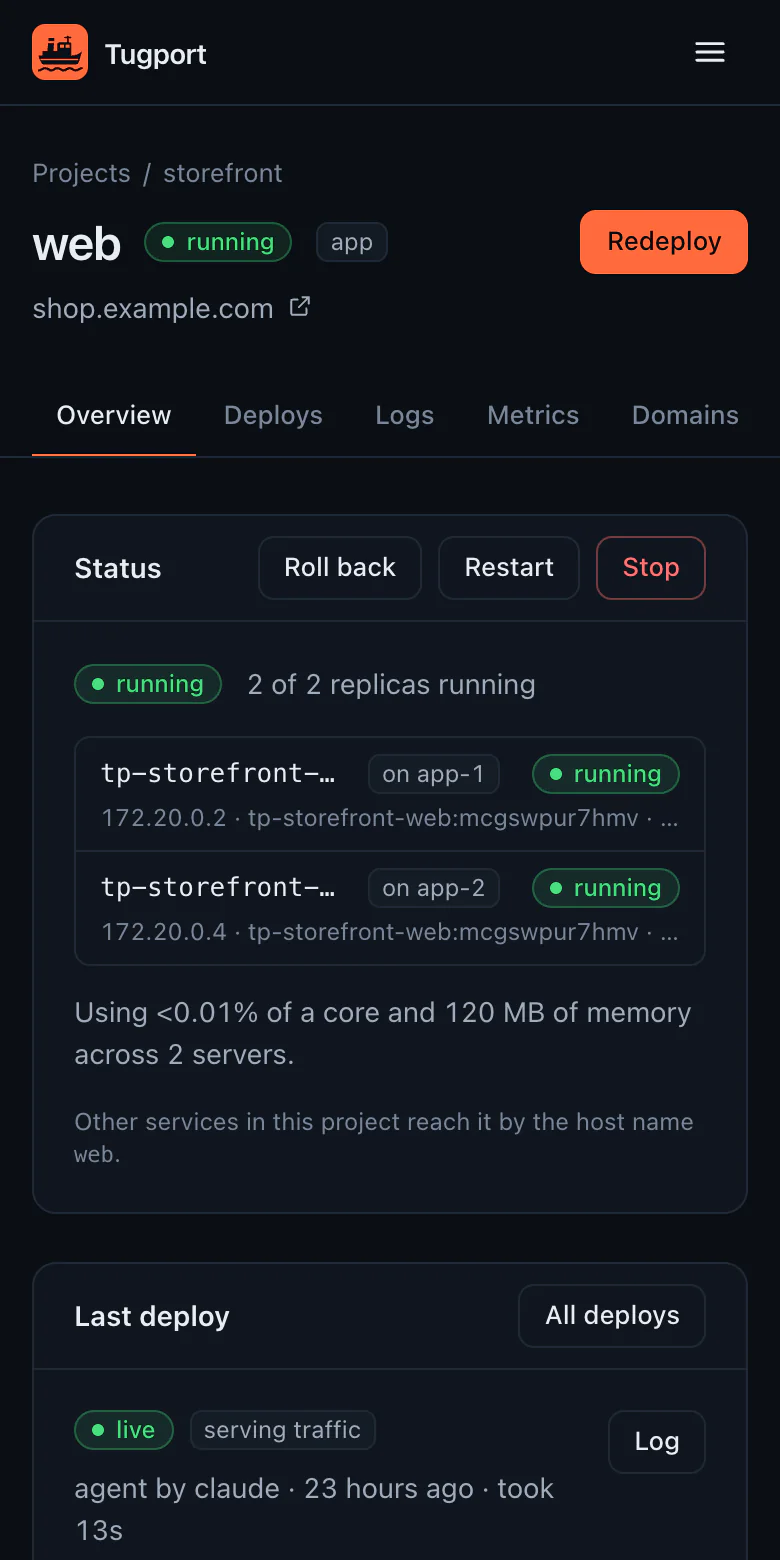
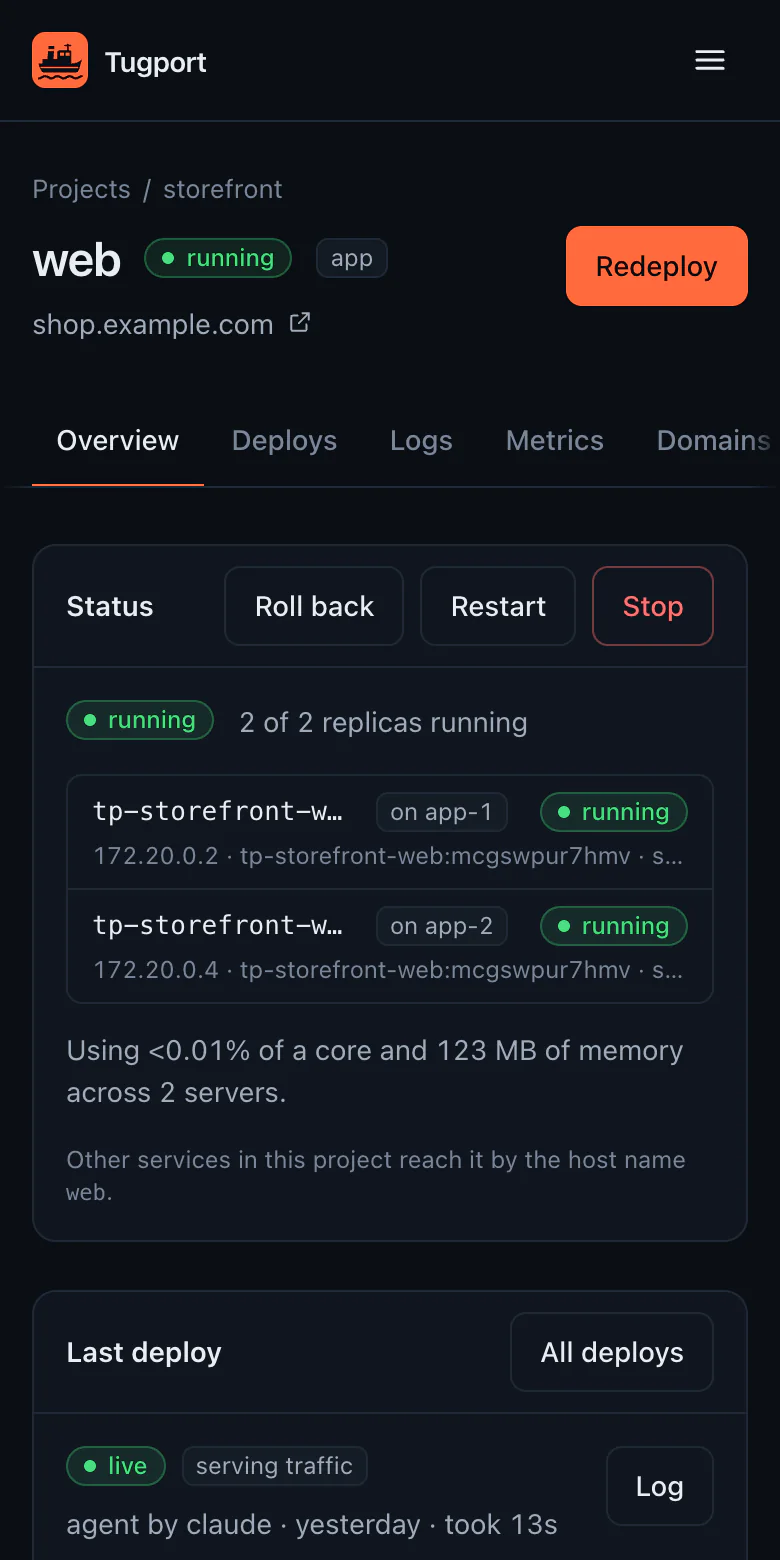
Make the panel and the landing comfortable on phones (#13)

diff --git a/website/index.html b/website/index.html
@@ -183,7 +183,9 @@
   .term + .term { margin-top: 14px; }
   .term .t { display: flex; justify-content: space-between; align-items: center; padding: 9px 14px; border-bottom: 1px solid var(--code-line); color: #7C899C; font-size: 12px; }
   .term pre { padding: 14px 16px; white-space: pre; }
-  @media (min-width: 981px) { .term pre.wrap { white-space: pre-wrap; } }
+  /* A log: each line wraps under its own text, after the timestamp. */
+  .term pre.log { white-space: pre-wrap; overflow-wrap: anywhere; }
+  .term pre.log > span { display: block; padding-left: 9ch; text-indent: -9ch; }
   .term .p { color: #FF8A63; user-select: none; }
   .term .c { color: #6E7B8F; }
   .term .ok { color: #4ADE80; }
@@ -246,6 +248,16 @@
     .card .pic { margin-left: 20px; }
     .card ul, .snip { margin-left: 20px; margin-right: 20px; }
     .facts { grid-template-columns: 1fr; }
+    /* The phone shots show the panel at its real phone size, so they fit the card instead of bleeding. */
+    .card .pic { margin-right: 20px; margin-bottom: 20px; border: 1px solid var(--line); border-radius: 12px; }
+    .card .pic img { -webkit-mask-image: none; mask-image: none; }
+    .term { font-size: 12.5px; }
+    .term pre { padding: 12px 14px; }
+    .term-copy { padding: 7px 12px; font-size: 13px; }
+    .steps li { display: grid; grid-template-columns: 30px minmax(0, 1fr); column-gap: 16px; padding: 20px; }
+    .steps li::before { grid-row: span 2; margin: 0; }
+    .steps h3 { align-self: center; }
+    footer nav a { padding: 8px 0; }
   }
   @media (prefers-reduced-motion: reduce) {
     html { scroll-behavior: auto; }
@@ -264,7 +276,7 @@
         <a class="hide-sm" href="#features">Features</a>
         <a class="hide-sm" href="#agents">Agents</a>
         <a class="hide-sm" href="#install">Install</a>
-        <a class="hide-sm" href="https://github.com/backmeupplz/tugport/tree/main/docs">Docs</a>
+        <a href="https://github.com/backmeupplz/tugport/tree/main/docs">Docs</a>
         <a class="gh" href="https://github.com/backmeupplz/tugport">
           <svg viewBox="0 0 24 24" fill="currentColor" aria-hidden="true"><path d="M12 .5a11.5 11.5 0 0 0-3.64 22.41c.58.1.79-.25.79-.56v-2c-3.2.7-3.88-1.37-3.88-1.37-.53-1.33-1.28-1.69-1.28-1.69-1.05-.71.08-.7.08-.7 1.16.08 1.77 1.19 1.77 1.19 1.03 1.77 2.71 1.26 3.37.96.1-.75.4-1.26.73-1.55-2.55-.29-5.24-1.28-5.24-5.69 0-1.26.45-2.29 1.19-3.09-.12-.29-.52-1.46.11-3.05 0 0 .97-.31 3.17 1.18a11 11 0 0 1 5.77 0c2.2-1.49 3.17-1.18 3.17-1.18.63 1.59.23 2.76.11 3.05.74.8 1.19 1.83 1.19 3.09 0 4.42-2.7 5.39-5.26 5.68.41.36.78 1.06.78 2.14v3.17c0 .31.21.67.8.56A11.5 11.5 0 0 0 12 .5Z"/></svg>
           GitHub
@@ -314,6 +326,8 @@
           </div>
           <div class="pic">
             <picture>
+              <source media="(max-width: 640px) and (prefers-color-scheme: light)" srcset="/shots/deploys-light-phone.webp" width="780" height="1040">
+              <source media="(max-width: 640px)" srcset="/shots/deploys-dark-phone.webp" width="780" height="1040">
               <source media="(prefers-color-scheme: light)" srcset="/shots/deploys-light.webp" width="1600" height="960">
               <img src="/shots/deploys-dark.webp" width="1600" height="960" loading="lazy" alt="The deploy history of a service: a release that crashed on start failed its health check and never received traffic, while the previous version kept serving.">
             </picture>
@@ -326,6 +340,8 @@
           </div>
           <div class="pic">
             <picture>
+              <source media="(max-width: 640px) and (prefers-color-scheme: light)" srcset="/shots/metrics-light-phone.webp" width="780" height="1040">
+              <source media="(max-width: 640px)" srcset="/shots/metrics-dark-phone.webp" width="780" height="1040">
               <source media="(prefers-color-scheme: light)" srcset="/shots/metrics-light.webp" width="1600" height="960">
               <img src="/shots/metrics-dark.webp" width="1600" height="960" loading="lazy" alt="CPU, memory and network charts of a service over the last hour.">
             </picture>
@@ -338,6 +354,8 @@
           </div>
           <div class="pic">
             <picture>
+              <source media="(max-width: 640px) and (prefers-color-scheme: light)" srcset="/shots/servers-light-phone.webp" width="780" height="1040">
+              <source media="(max-width: 640px)" srcset="/shots/servers-dark-phone.webp" width="780" height="1040">
               <source media="(prefers-color-scheme: light)" srcset="/shots/servers-light.webp" width="2080" height="1040">
               <img src="/shots/servers-dark.webp" width="2080" height="1040" loading="lazy" alt="Three servers in three regions, each online, with their Tugport and Docker versions, processor, memory and labels.">
             </picture>
@@ -404,14 +422,7 @@ Certificates: 1 imported, so nothing is re-issued</pre>
         </div>
         <div class="term">
           <div class="t"><span>Or deploy from the CLI and wait for the outcome</span></div>
-          <pre class="wrap"><span class="p">$ </span>tugport deploy storefront.api
-<span class="c">04:52:19</span> Fetching main from git@git.example.com:acme/storefront.git
-<span class="c">04:52:19</span> Checked out 5a24391 Cache the product list for a minute
-<span class="c">04:52:21</span> Built tp-storefront-api:z2ukkvwlcfw0 in 1.3s
-<span class="c">04:52:21</span> Running on app-1, app-2
-<span class="c">04:52:22</span> Started 2 containers; checking health
-<span class="c">04:52:22</span> Traffic switched; letting the old version finish requests for 10s
-<span class="c">04:52:33</span> <span class="ok">Live after 13.5s.</span></pre>
+          <pre class="log"><span><span class="p">$ </span>tugport deploy storefront.api</span><span><span class="c">04:52:19</span> Fetching main from git@git.example.com:acme/storefront.git</span><span><span class="c">04:52:19</span> Checked out 5a24391 Cache the product list for a minute</span><span><span class="c">04:52:21</span> Built tp-storefront-api:z2ukkvwlcfw0 in 1.3s</span><span><span class="c">04:52:21</span> Running on app-1, app-2</span><span><span class="c">04:52:22</span> Started 2 containers; checking health</span><span><span class="c">04:52:22</span> Traffic switched; letting the old version finish requests for 10s</span><span><span class="c">04:52:33</span> <span class="ok">Live after 13.5s.</span></span></pre>
         </div>
       </div>
     </div>

diff --git a/web/src/ui.tsx b/web/src/ui.tsx
@@ -1,7 +1,7 @@
 // Small shared components. Native elements first: <dialog> for modals, confirm() for
 // quick confirmations, <fieldset disabled> for read-only forms.
 import type { ComponentChildren, JSX } from "preact";
-import { useEffect, useRef, useState } from "preact/hooks";
+import { useEffect, useLayoutEffect, useRef, useState } from "preact/hooks";
 import type { ApiError } from "./api";
 import { Icon } from "./icons";
 import { copyText, sentence } from "./util";
@@ -53,12 +53,12 @@ export function Card(props: { title?: ComponentChildren; actions?: ComponentChil
   return (
     <section class={`card min-w-0 ${props.class ?? ""}`}>
       {(props.title || props.actions) && (
-        <header class="flex min-h-13 flex-wrap items-center justify-between gap-2 border-b border-line px-5 py-2.5">
+        <header class="flex min-h-13 flex-wrap items-center justify-between gap-2 border-b border-line px-4 py-2.5 md:px-5">
           <h2 class="text-sm font-semibold">{props.title}</h2>
           {props.actions && <div class="flex flex-wrap gap-2">{props.actions}</div>}
         </header>
       )}
-      <div class={props.pad === false ? "" : "p-5"}>{props.children}</div>
+      <div class={props.pad === false ? "" : "p-4 md:p-5"}>{props.children}</div>
     </section>
   );
 }
@@ -292,13 +292,13 @@ export function Modal(props: { open: boolean; onClose: () => void; title: Compon
     >
       {props.open && (
         <div>
-          <header class="sticky top-0 z-10 flex items-center justify-between gap-3 border-b border-line bg-surface px-6 py-3.5">
+          <header class="sticky top-0 z-10 flex items-center justify-between gap-3 border-b border-line bg-surface px-5 py-3 md:px-6 md:py-3.5">
             <h2 class="min-w-0 truncate text-base font-semibold">{props.title}</h2>
             <button type="button" class="btn btn-ghost -mr-2 px-2" aria-label="Close" onClick={props.onClose}>
               <Icon name="close" />
             </button>
           </header>
-          <div class="p-6">{props.children}</div>
+          <div class="p-5 md:p-6">{props.children}</div>
         </div>
       )}
     </dialog>
@@ -434,16 +434,30 @@ export function Pill(props: { state: string; label?: string; class?: string }) {
   );
 }
 
+/** Page tabs. On phones they scroll sideways, start scrolled to the current one and fade at the edges. */
 export function Tabs(props: { items: [string, string, string][]; current: string; label: string }) {
+  const ref = useRef<HTMLElement>(null);
+  useLayoutEffect(() => {
+    const nav = ref.current;
+    const tab = nav?.querySelector<HTMLElement>("[aria-current]");
+    if (!nav || !tab) return;
+    const n = nav.getBoundingClientRect();
+    const t = tab.getBoundingClientRect();
+    nav.scrollLeft += t.left - n.left - (n.width - t.width) / 2;
+  }, [props.current]);
   return (
-    <nav aria-label={props.label} class="-mx-4 mb-7 overflow-x-auto border-b border-line px-4 md:mx-0 md:px-0">
+    <nav
+      ref={ref}
+      aria-label={props.label}
+      class="-mx-4 mb-7 overflow-x-auto border-b border-line px-4 [scrollbar-width:none] max-md:[mask-image:linear-gradient(to_right,transparent,#000_1rem,#000_calc(100%-1rem),transparent)] md:mx-0 md:px-0"
+    >
       <div class="flex gap-0.5">
         {props.items.map(([id, label, href]) => (
           <a
             key={id}
             href={href}
             aria-current={id === props.current ? "page" : undefined}
-            class={`-mb-px whitespace-nowrap border-b-2 px-3 pt-1.5 pb-2.5 text-[13px] font-medium ${
+            class={`-mb-px whitespace-nowrap border-b-2 px-3 pt-2.5 pb-3 text-sm font-medium md:pt-1.5 md:pb-2.5 md:text-[13px] ${
               id === props.current ? "border-accent text-text" : "border-transparent text-muted hover:text-text"
             }`}
           >

diff --git a/web/src/pages/settings.tsx b/web/src/pages/settings.tsx
@@ -453,12 +453,14 @@ function Notifications() {
                   <span class="font-medium">{c.name}</span> <span class="chip">{c.kind}</span>
                   <p class="text-xs text-muted">{c.events.includes("*") ? "All events" : c.events.join(", ")}</p>
                 </div>
-                <Action run={() => post(`/notifications/${c.id}/test`)} done="Test message sent.">
-                  Send test
-                </Action>
-                <Action class="btn btn-ghost text-bad" confirm={`Remove ${c.name}?`} run={() => del(`/notifications/${c.id}`).then(r.reload)}>
-                  Remove
-                </Action>
+                <div class="flex flex-wrap gap-2">
+                  <Action run={() => post(`/notifications/${c.id}/test`)} done="Test message sent.">
+                    Send test
+                  </Action>
+                  <Action class="btn btn-ghost text-bad" confirm={`Remove ${c.name}?`} run={() => del(`/notifications/${c.id}`).then(r.reload)}>
+                    Remove
+                  </Action>
+                </div>
               </li>
             )}
           </Rows>
@@ -636,16 +638,18 @@ function Backups() {
                     </p>
                     {j.last_run?.error && <p class="text-xs text-bad">{j.last_run.error}</p>}
                   </div>
-                  <button class="btn" onClick={() => setRunsOf(j)}>
-                    Runs
-                  </button>
-                  <Action run={() => patch(`/backups/jobs/${j.id}`, { enabled: j.enabled === false }).then(jobs.reload)}>{j.enabled === false ? "Resume" : "Pause"}</Action>
-                  <Action run={() => post(`/backups/jobs/${j.id}/run`).then(jobs.reload)} done="Backup started.">
-                    Run now
-                  </Action>
-                  <Action class="btn btn-ghost text-bad" confirm="Remove this job? Existing backups stay in the target." run={() => del(`/backups/jobs/${j.id}`).then(jobs.reload)}>
-                    Remove
-                  </Action>
+                  <div class="flex flex-wrap gap-2">
+                    <button class="btn" onClick={() => setRunsOf(j)}>
+                      Runs
+                    </button>
+                    <Action run={() => patch(`/backups/jobs/${j.id}`, { enabled: j.enabled === false }).then(jobs.reload)}>{j.enabled === false ? "Resume" : "Pause"}</Action>
+                    <Action run={() => post(`/backups/jobs/${j.id}/run`).then(jobs.reload)} done="Backup started.">
+                      Run now
+                    </Action>
+                    <Action class="btn btn-ghost text-bad" confirm="Remove this job? Existing backups stay in the target." run={() => del(`/backups/jobs/${j.id}`).then(jobs.reload)}>
+                      Remove
+                    </Action>
+                  </div>
                 </li>
               )}
             </Rows>

diff --git a/web/src/app.css b/web/src/app.css
@@ -91,7 +91,7 @@
 
 @layer components {
   .btn {
-    @apply inline-flex h-8 items-center justify-center gap-1.5 whitespace-nowrap rounded-lg border border-line bg-surface px-3 text-[13px] font-medium text-text shadow-(--shadow) transition-colors hover:border-line-strong hover:bg-raised disabled:cursor-not-allowed disabled:opacity-50;
+    @apply inline-flex h-10 items-center justify-center gap-1.5 whitespace-nowrap rounded-lg border border-line bg-surface px-3.5 text-sm md:h-8 md:px-3 md:text-[13px] font-medium text-text shadow-(--shadow) transition-colors hover:border-line-strong hover:bg-raised disabled:cursor-not-allowed disabled:opacity-50;
   }
   .btn-primary {
     @apply border-transparent bg-accent text-accent-ink hover:border-transparent hover:bg-accent hover:brightness-110;
@@ -103,13 +103,13 @@
     @apply border-transparent bg-transparent shadow-none hover:border-transparent;
   }
   .btn-sm {
-    @apply h-7 px-2 text-xs;
+    @apply h-8 px-2.5 text-[13px] md:h-7 md:px-2 md:text-xs;
   }
   .input {
-    @apply block h-9 w-full min-w-0 rounded-lg border border-line bg-bg px-3 text-sm text-text transition-colors placeholder:text-muted hover:border-line-strong focus:border-accent/70 focus:outline-none focus-visible:outline-none focus:ring-3 focus:ring-accent/15 disabled:opacity-60;
+    @apply block h-11 w-full min-w-0 rounded-lg border border-line bg-bg px-3 text-base text-text md:h-9 md:text-sm transition-colors placeholder:text-muted hover:border-line-strong focus:border-accent/70 focus:outline-none focus-visible:outline-none focus:ring-3 focus:ring-accent/15 disabled:opacity-60;
   }
   textarea.input {
-    @apply h-auto py-2 font-mono text-[13px] leading-snug;
+    @apply h-auto py-2 font-mono text-base leading-snug md:text-[13px];
   }
   .card {
     @apply rounded-xl border border-line bg-surface shadow-(--shadow);
@@ -125,7 +125,7 @@
   }
   /* One entry of a card's list (see Rows). */
   .row {
-    @apply flex flex-wrap items-center gap-3 px-5 py-3;
+    @apply flex flex-wrap items-center gap-3 px-4 py-3 md:px-5;
   }
   /* A bordered list inside a card. */
   .inset-list {
@@ -133,6 +133,23 @@
   }
   .chip {
     @apply inline-flex items-center gap-1 whitespace-nowrap rounded-md border border-line bg-raised/60 px-1.5 py-px text-xs text-dim;
+  }
+}
+
+/* In a wrapping row, the text keeps at least 12rem on phones, so its buttons move to a line of
+   their own instead of squeezing it into a narrow column. */
+@media (width < 48rem) {
+  .flex-wrap > .min-w-0.flex-1,
+  .row > .min-w-0.flex-1 {
+    flex-basis: 12rem;
+  }
+}
+
+/* Phones zoom into any focused field under 16px; the fields above are 16px there, and so is
+   the terminal's hidden input. */
+@media (width < 48rem) {
+  .xterm-helper-textarea {
+    font-size: 16px !important;
   }
 }
 

diff --git a/web/src/app.tsx b/web/src/app.tsx
@@ -163,7 +163,7 @@ function Shell(props: { me: Me; reloadMe: () => Promise<void>; signOut: () => vo
               <a
                 href={href}
                 aria-current={active ? "page" : undefined}
-                class={`flex h-9 items-center gap-3 rounded-lg px-3 font-medium ${active ? "bg-raised text-text" : "text-dim hover:bg-raised/60 hover:text-text"}`}
+                class={`flex h-11 items-center gap-3 rounded-lg px-3 text-[15px] font-medium md:h-9 md:text-sm ${active ? "bg-raised text-text" : "text-dim hover:bg-raised/60 hover:text-text"}`}
               >
                 <Icon name={icon} class={`size-4 ${active ? "text-accent" : ""}`} />
                 {label}
@@ -214,9 +214,12 @@ function Drawer(props: { open: boolean; onClose: () => void; children: Component
       onClose={props.onClose}
       onClick={(e) => e.target === ref.current && props.onClose()}
       aria-label="Navigation"
-      class="m-0 h-dvh max-h-none w-64 max-w-[85vw] border-r border-line bg-bg p-0 text-text md:hidden"
+      class="m-0 h-dvh max-h-none w-72 max-w-[85vw] border-r border-line bg-bg p-0 text-text md:hidden"
     >
       {props.children}
+      <button type="button" class="btn btn-ghost absolute top-3.5 right-3 px-2.5" aria-label="Close the menu" onClick={props.onClose}>
+        <Icon name="close" class="size-5" />
+      </button>
     </dialog>
   );
 }

diff --git a/web/src/charts.tsx b/web/src/charts.tsx
@@ -138,7 +138,7 @@ export function Chart(props: { title: string; lines: Line[]; fmt: (v: number) =>
   }, [signature, tick, hasData]);
 
   return (
-    <section class="card min-w-0 p-5" aria-label={`${props.title} chart`}>
+    <section class="card min-w-0 p-4 md:p-5" aria-label={`${props.title} chart`}>
       <header class="mb-3 flex flex-wrap items-baseline justify-between gap-2">
         <h3 class="text-sm font-semibold">{props.title}</h3>
         {summary && <span class="text-xs text-muted tabular-nums">{summary}</span>}

diff --git a/web/src/pages/access.tsx b/web/src/pages/access.tsx
@@ -607,7 +607,7 @@ export function Audit() {
         <>
           <ul class="card divide-y divide-line">
             {entries.map((e) => (
-              <li key={e.id} class="px-5 py-2.5">
+              <li key={e.id} class="px-4 py-2.5 md:px-5">
                 <div class="flex flex-wrap items-baseline gap-x-2 gap-y-1">
                   <span class="font-medium">{e.actor ?? "tugport"}</span>
                   {e.actor_kind && e.actor_kind !== "human" && <span class="chip">{e.actor_kind}</span>}

diff --git a/web/index.html b/web/index.html
@@ -7,6 +7,9 @@
     <meta name="robots" content="noindex" />
     <title>Tugport</title>
     <link rel="icon" href="/logo.svg" type="image/svg+xml" />
+    <link rel="apple-touch-icon" href="/apple-touch-icon.png" />
+    <meta name="theme-color" content="#0a0e14" media="(prefers-color-scheme: dark)" />
+    <meta name="theme-color" content="#f7f6f2" media="(prefers-color-scheme: light)" />
     <script src="/theme.js"></script>
   </head>
   <body>

diff --git a/web/src/pages/service.tsx b/web/src/pages/service.tsx
@@ -424,7 +424,7 @@ function Deploys({ c }: { c: Ctx }) {
         {(data) => (
           <Rows items={data.deploys} empty="This service has not been deployed yet.">
             {(d) => (
-              <li key={d.id} class="px-5 py-3">
+              <li key={d.id} class="px-4 py-3 md:px-5">
                 <DeployRow d={d} live={data.live} c={c} actions />
               </li>
             )}
